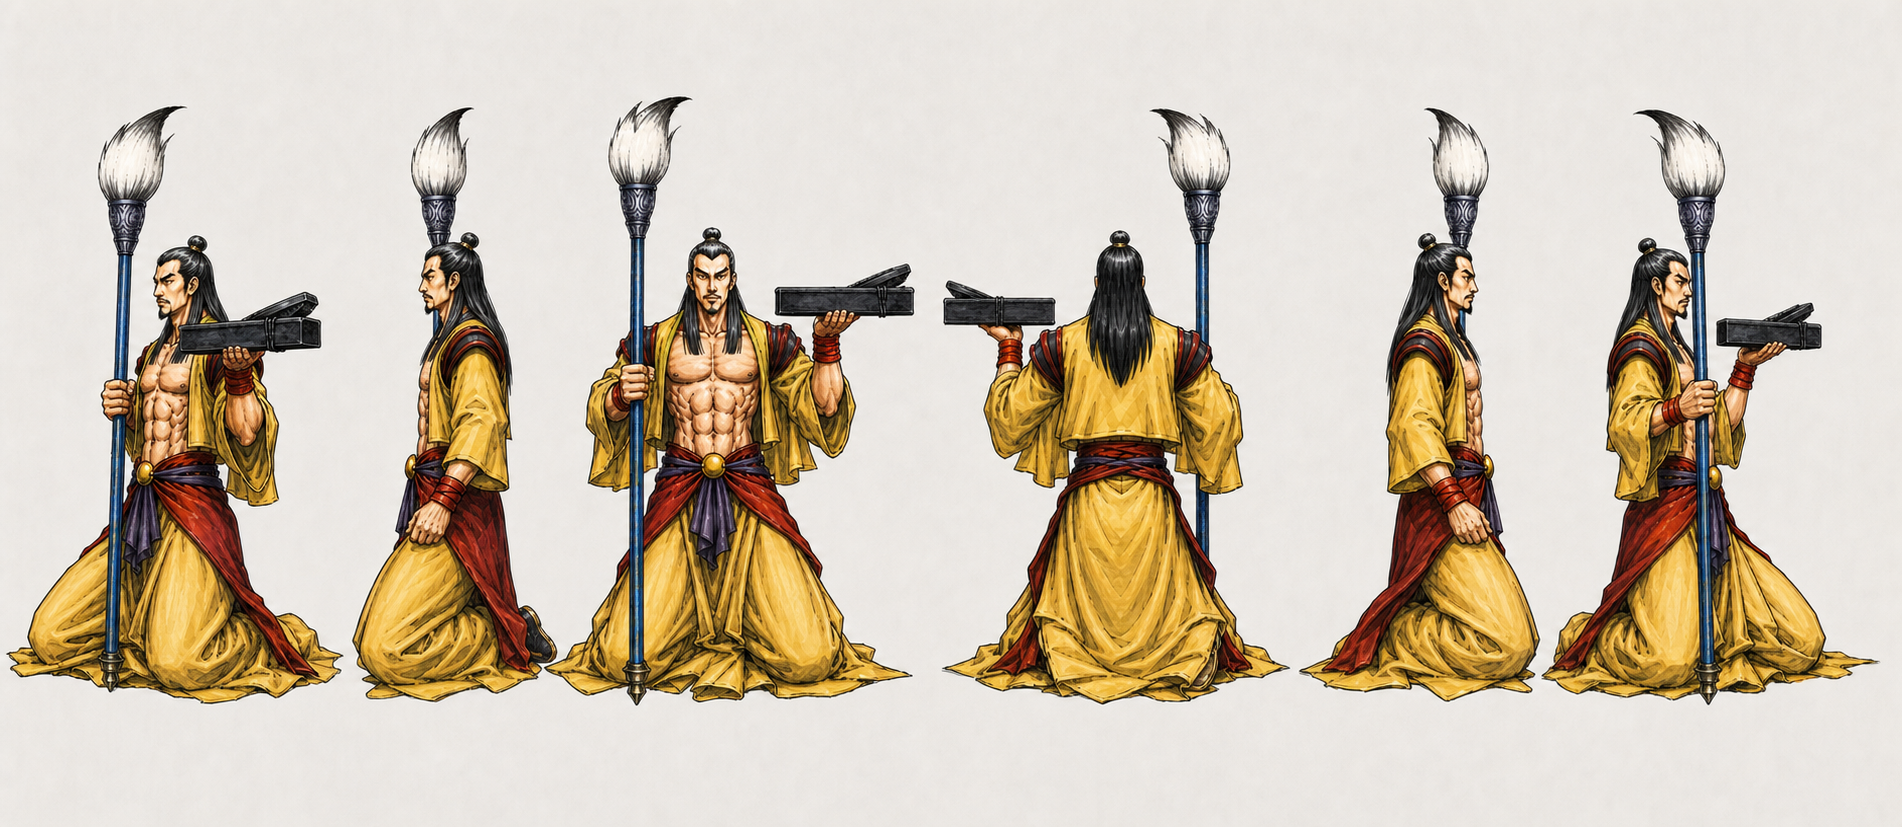
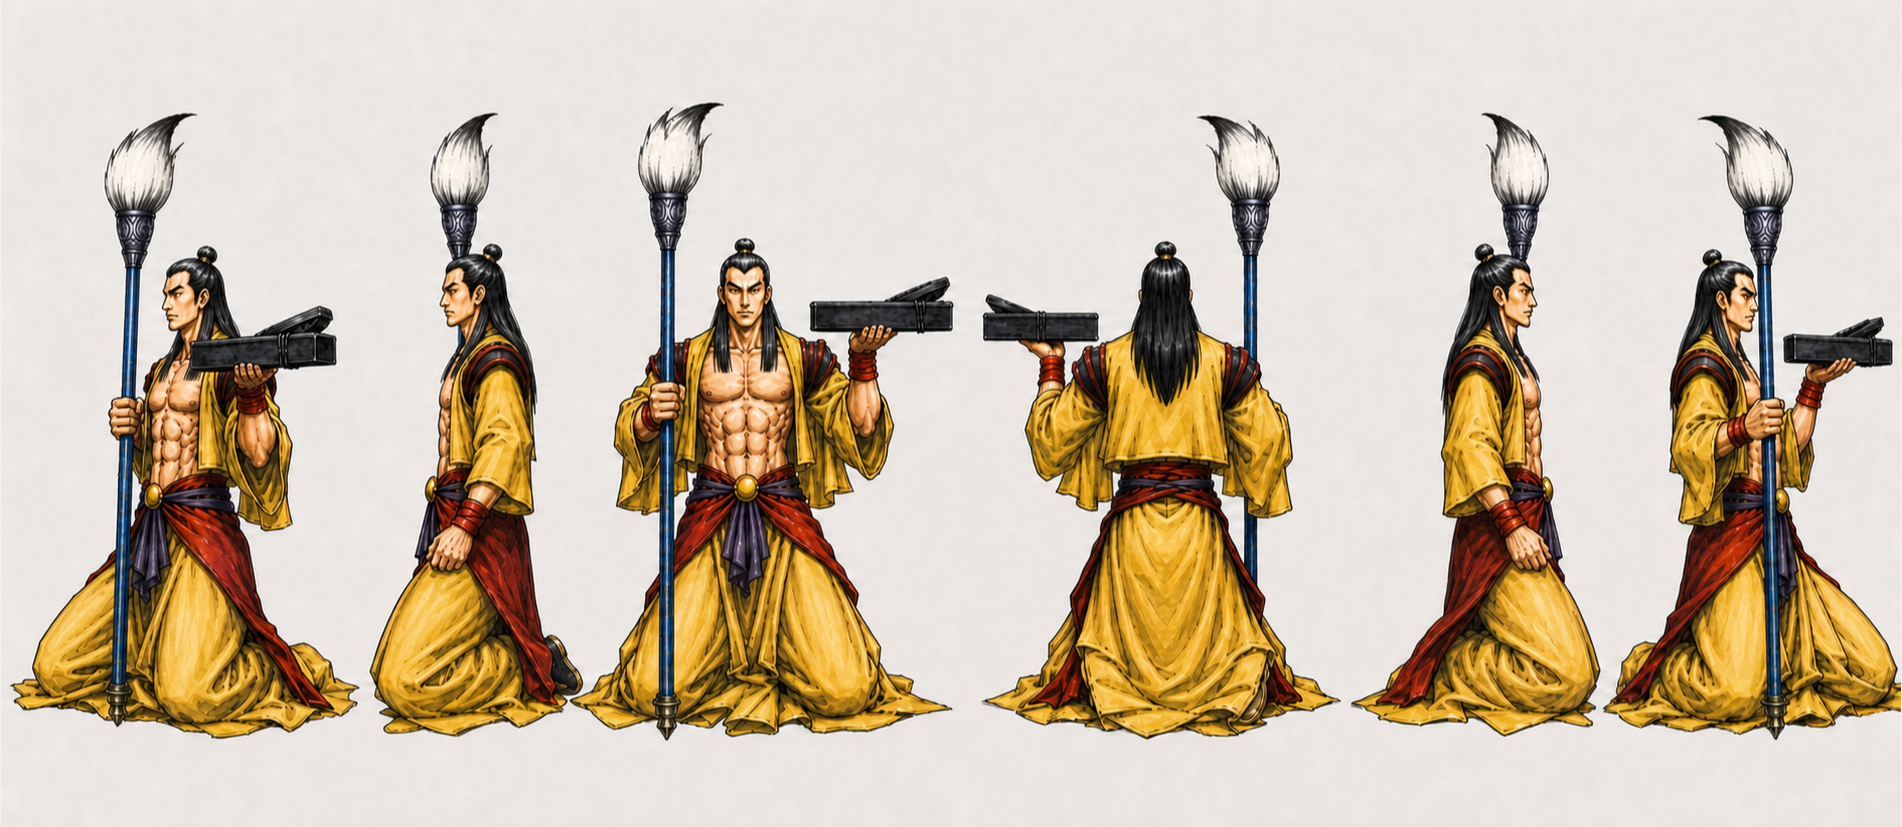
fix(046): 移除人物设定图中的错误胡须
根据原图纠正角色无胡须的身份事实，更新头部表、中立六视图和原画姿态版，并保留返修前版本。

diff --git a/character-model-sheets/characters/046/review-notes.md b/character-model-sheets/characters/046/review-notes.md
@@ -24,7 +24,15 @@
 ## 2026-08-21 头部四视图补充
 
 - [x] 已生成 `head-sheet.png`，严格按正面、纯后脑、角色自身左侧面、角色自身右侧面排列。
-- [x] 四张保持同一身份、颅骨体积、发型／头戴、胡须、颈部尺度、裁切、光照和固定复古手绘画风。
+- [x] 四张保持同一身份、颅骨体积、发型／头戴、无胡须面部、颈部尺度、裁切、光照和固定复古手绘画风。
 - [x] 纯后脑没有出现面部；左右侧面来自角色不同解剖侧，未用表情变化代替视角变化。
 - [x] 原图未展示的后脑与连接结构继续按规格中的 `inferred`／`unknown` 克制处理，不宣称为原作事实。
 - 状态保持 `generated`，等待用户批准。
+
+## 2026-08-22 无胡须身份纠正
+
+- [x] 重新核对原图：角色面部无胡须，无上唇髭、无山羊胡。
+- [x] `head-sheet.png` 的三个可见面部去除胡须，纯背面保持不变。
+- [x] `character-turnaround.png` 的五个可见面部去除胡须，纯背面保持不变。
+- [x] `character-turnaround-original-pose.png` 的五个可见面部去除胡须，纯背面保持不变。
+- [x] 仅返修面部胡须区域；脸型、五官、发型、服装、姿态、武器、视角、画布和画风保持不变。
